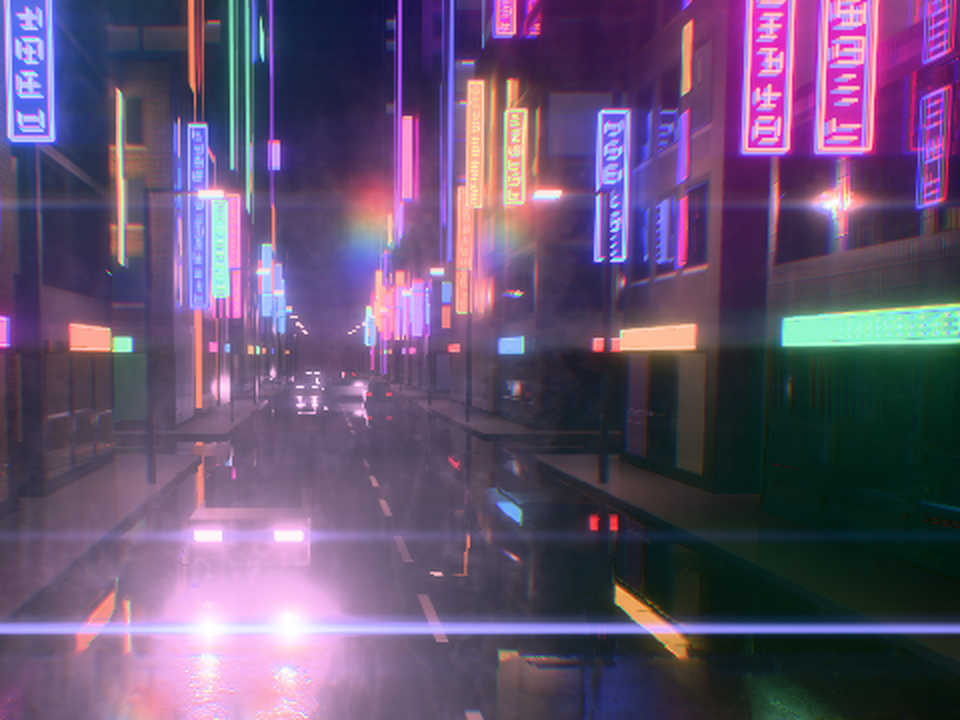
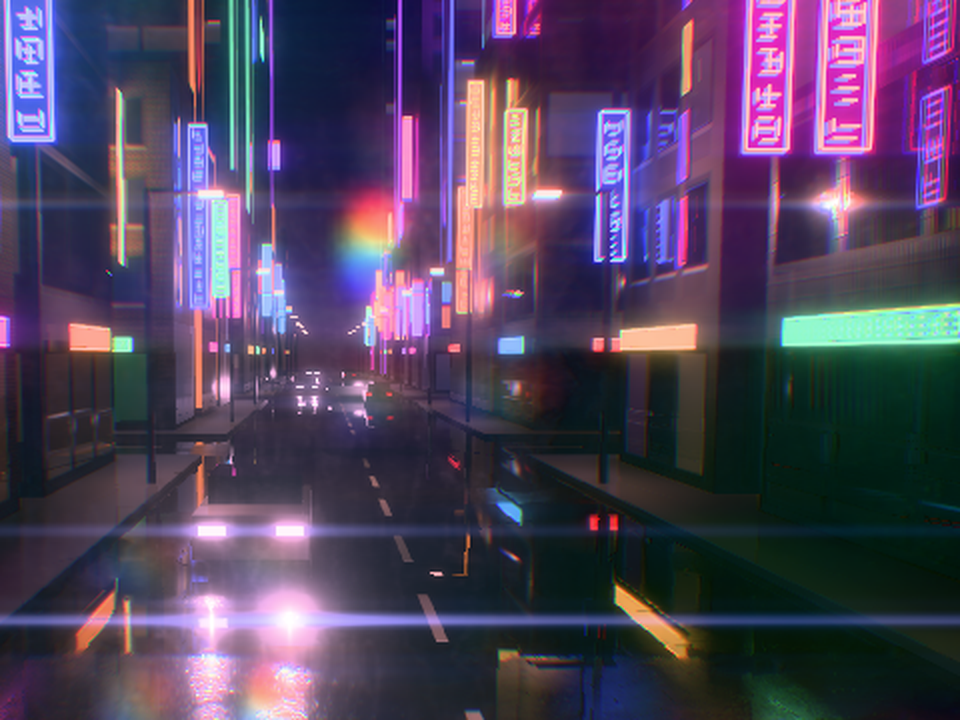
Lighting 28: review fixes: flare reads level 1 before bloom's upsamples, INFOs, lens dirt names, ADR-0059 accepted
The flare's ghosts and blur now run before bloom's upsamples, so the flare is
the same with bloom on or off and at any radius (goldens rewritten, neon city
recaptured). One behaviour per test case and an INFO per check; "dirty" names
become lens dirt's; lens dirt warnings get their own log set; the fringe docs
say what the shader does; the fetcher's header owns up to a corrupt zip.
ADR-0059 is accepted, as this ships the last of it.

diff --git a/packages/FenrirRenderer/src/Core/Bloom.cpp b/packages/FenrirRenderer/src/Core/Bloom.cpp
@@ -138,7 +138,7 @@ namespace Fenrir::Render
     BloomChain::BloomChain(GraphicsDevice& device, ILogger& logger, std::uint32_t samples)
         : m_device(device),
           m_passes(device, logger, "Bloom", RenderStage::PostProcess, MirroredSampler(), sizeof(BloomBlock)),
-          m_dirtyPasses(device, logger, "Lens dirt", RenderStage::PostProcess, MirroredSampler(), sizeof(BloomBlock))
+          m_lensDirtPasses(device, logger, "Lens dirt", RenderStage::PostProcess, MirroredSampler(), sizeof(BloomBlock))
     {
         m_downsample = ReadBuiltin(BuiltinProgram::BloomDownsample, logger);
         m_upsample = ReadBuiltin(BuiltinProgram::BloomUpsample, logger);
@@ -172,8 +172,8 @@ namespace Fenrir::Render
         // The flare's ghosts, and the composite that also reads the lens dirt, at SceneColor's samples.
         m_flareGhosts = m_passes.MakePipeline(m_flare.FindVariant({}), m_flare.name, {TextureFormat::Rgba16Float});
         constexpr std::array<std::string_view, 1> dirt{"DIRT"};
-        m_dirtyComposite = m_dirtyPasses.MakePipeline(m_upsample.FindVariant(dirt), m_upsample.name,
-                                                      {TextureFormat::Rgba16Float}, BlendMode::Alpha, samples);
+        m_lensDirtComposite = m_lensDirtPasses.MakePipeline(m_upsample.FindVariant(dirt), m_upsample.name,
+                                                            {TextureFormat::Rgba16Float}, BlendMode::Alpha, samples);
     }
 
     BloomChain::~BloomChain()
@@ -186,7 +186,7 @@ namespace Fenrir::Render
         m_device.Destroy(m_streakUpsample);
         m_device.Destroy(m_streakComposite);
         m_device.Destroy(m_flareGhosts);
-        m_device.Destroy(m_dirtyComposite);
+        m_device.Destroy(m_lensDirtComposite);
     }
 
     void BloomChain::AddPasses(RenderGraph& graph, std::uint64_t frameIndex, std::span<const BloomView> views)
@@ -208,8 +208,8 @@ namespace Fenrir::Render
         const auto flares = [this](const BloomView& view) {
             return !m_flareGhosts.IsEmpty() && view.flare.intensity > 0.0f && BloomLevels(view.size) > 0;
         };
-        const auto dirty = [this](const BloomView& view) {
-            return !m_dirtyComposite.IsEmpty() && !view.dirt.IsEmpty() && view.flare.dirtIntensity > 0.0f;
+        const auto hasLensDirt = [this](const BloomView& view) {
+            return !m_lensDirtComposite.IsEmpty() && !view.dirt.IsEmpty() && view.flare.dirtIntensity > 0.0f;
         };
         // How many of bloom's levels a view downsamples to: all of them when it blooms, else down to the flare's level
         // when it flares, else level 0 for the streaks.
@@ -218,9 +218,9 @@ namespace Fenrir::Render
         };
         // Each view's passes take one block apiece: a downsample per level and, when it blooms, an upsample per level
         // but the last and its composite; the streaks' downsample per level, as many upsamples less one and their
-        // composite; and the flare's three. The composites under lens dirt take theirs from the dirty ring.
+        // composite; and the flare's three. The composites under lens dirt take theirs from the lens dirt ring.
         std::size_t slots = 0;
-        std::size_t dirtySlots = 0;
+        std::size_t lensDirtSlots = 0;
         for (const BloomView& view : views)
         {
             const bool bloom = blooms(view);
@@ -234,14 +234,14 @@ namespace Fenrir::Render
             slots += streaks(view) ? std::size_t{2} * StreakLevels(view.size) : 0;
             slots += flare ? 2 : 0;
             const std::size_t composites = (bloom ? 1 : 0) + (flare ? 1 : 0);
-            (dirty(view) ? dirtySlots : slots) += composites;
+            (hasLensDirt(view) ? lensDirtSlots : slots) += composites;
         }
         if (slots == 0)
         {
             return;
         }
         m_passes.Reserve(slots);
-        m_dirtyPasses.Reserve(dirtySlots);
+        m_lensDirtPasses.Reserve(lensDirtSlots);
 
         const auto addPass = [&](const char* name, PipelineHandle pipeline, GraphResource source, GraphResource target,
                                  LoadOp load, PixelSize sourceSize, PixelSize targetSize, float blend, bool karis,
@@ -255,13 +255,13 @@ namespace Fenrir::Render
         const auto addComposite = [&](const char* name, const BloomView& view, GraphResource source,
                                       PixelSize sourceSize, float intensity) {
             const PixelRect viewport{0, 0, view.size.width, view.size.height};
-            if (dirty(view))
+            if (hasLensDirt(view))
             {
-                const BindingGroupHandle block = m_dirtyPasses.Block(
+                const BindingGroupHandle block = m_lensDirtPasses.Block(
                     frameIndex,
                     BytesOf(BlockFor(sourceSize, intensity, false, Math::Vec3(1.0f), view.flare.dirtIntensity)));
-                m_dirtyPasses.AddPass(graph, name, m_dirtyComposite, block, {source, view.dirt}, {view.sceneColour},
-                                      LoadOp::Load, viewport);
+                m_lensDirtPasses.AddPass(graph, name, m_lensDirtComposite, block, {source, view.dirt},
+                                         {view.sceneColour}, LoadOp::Load, viewport);
                 return;
             }
             const BindingGroupHandle block =
@@ -320,6 +320,28 @@ namespace Fenrir::Render
                         StreakLevelSize(view.size, level), 1.0f, false);
             }
 
+            // The flare's ghosts and halo read level 1 before bloom's upsamples blend the wider levels over it, so the
+            // flare is the same with bloom on or off and at any bloom radius; then their blur.
+            GraphResource flareLevel;
+            const PixelSize flareSize = LevelSize(view.size, FlareLevel(view.size));
+            if (flare)
+            {
+                FlareBlock block;
+                block.ghostSpacing = view.flare.ghostSpacing;
+                block.haloRadius = view.flare.haloRadius;
+                block.haloWidth = view.flare.haloWidth;
+                block.chromaticOffset = view.flare.chromaticOffset;
+                block.ghostCount = std::min(view.flare.ghostCount, MaxGhosts);
+                block.aspect = static_cast<float>(view.size.width) / static_cast<float>(view.size.height);
+                const GraphResource ghosts = makeLevel("Flare", flareSize);
+                m_passes.AddPass(graph, "FlareGhosts", m_flareGhosts, m_passes.Block(frameIndex, BytesOf(block)),
+                                 {chain[FlareLevel(view.size)]}, {ghosts}, LoadOp::DontCare,
+                                 {0, 0, flareSize.width, flareSize.height});
+                flareLevel = makeLevel("Flare", flareSize);
+                addPass("FlareBlur", m_downsamplePipeline, ghosts, flareLevel, LoadOp::DontCare, flareSize, flareSize,
+                        1.0f, false);
+            }
+
             if (bloom)
             {
                 const float intensity = std::min(view.settings.intensity, 1.0f);
@@ -349,22 +371,7 @@ namespace Fenrir::Render
 
             if (flare)
             {
-                // The ghosts and halo from bloom's level 1, holding the bloom of the wider levels when the view blooms.
-                const std::uint32_t level = FlareLevel(view.size);
-                const PixelSize size = LevelSize(view.size, level);
-                FlareBlock block;
-                block.ghostSpacing = view.flare.ghostSpacing;
-                block.haloRadius = view.flare.haloRadius;
-                block.haloWidth = view.flare.haloWidth;
-                block.chromaticOffset = view.flare.chromaticOffset;
-                block.ghostCount = std::min(view.flare.ghostCount, MaxGhosts);
-                block.aspect = static_cast<float>(view.size.width) / static_cast<float>(view.size.height);
-                const GraphResource ghosts = makeLevel("Flare", size);
-                m_passes.AddPass(graph, "FlareGhosts", m_flareGhosts, m_passes.Block(frameIndex, BytesOf(block)),
-                                 {chain[level]}, {ghosts}, LoadOp::DontCare, {0, 0, size.width, size.height});
-                const GraphResource blurred = makeLevel("Flare", size);
-                addPass("FlareBlur", m_downsamplePipeline, ghosts, blurred, LoadOp::DontCare, size, size, 1.0f, false);
-                addComposite("FlareComposite", view, blurred, size, std::min(view.flare.intensity, 1.0f));
+                addComposite("FlareComposite", view, flareLevel, flareSize, std::min(view.flare.intensity, 1.0f));
             }
         }
     }

diff --git a/packages/FenrirRenderer/Tests/LensFlare.cpp b/packages/FenrirRenderer/Tests/LensFlare.cpp
@@ -68,6 +68,7 @@ namespace
     std::vector<std::byte> BlockBytes(const RendererTestApp& test, const PassRecord& pass, std::size_t& at)
     {
         const auto entries = RendererProbe::Entries(test.Device(), pass.groups.at(1));
+        INFO("the pass " << pass.pass.label << " binds one block at set 1");
         REQUIRE(entries.size() == 1);
         at = entries[0].offset;
         return RendererProbe::Bytes(test.Device(), entries[0].buffer);
@@ -213,14 +214,18 @@ TEST_CASE("Lens dirt raises a pixel's share of bloom and the flare, never past 1
 
 TEST_CASE("The flare reads bloom's second level, or its first when the chain has one", "[renderer][flare]")
 {
+    INFO("a 1280 x 720 view's chain has six levels, and a 4 x 4 view's two: the flare reads level 1");
     REQUIRE(FlareLevel({1280, 720}) == 1);
     REQUIRE(FlareLevel({4, 4}) == 1);
+    INFO("a 2 x 3 view's chain has level 0 only, which the flare reads");
     REQUIRE(FlareLevel({2, 3}) == 0);
 }
 
-TEST_CASE("The generated lens dirt is greyscale, mostly clean, and the same for the same seed", "[renderer][flare]")
+TEST_CASE("The generated lens dirt is a mostly clean, greyscale, linear image of the size asked for",
+          "[renderer][flare]")
 {
     const Fenrir::ImageData dirt = Fenrir::GenerateLensDirt(256, 128, 7);
+    INFO("an RGBA8 linear image of 256 x 128, with every pixel's bytes");
     REQUIRE(dirt.width == 256);
     REQUIRE(dirt.height == 128);
     REQUIRE(dirt.format == Fenrir::ImageFormat::RGBA8);
@@ -248,9 +253,15 @@ TEST_CASE("The generated lens dirt is greyscale, mostly clean, and the same for 
     REQUIRE(mean > 0.02);
     REQUIRE(mean < 0.35);
     REQUIRE(bright > 0);
-    INFO("the same seed makes the same image, another seed another");
-    REQUIRE(Fenrir::GenerateLensDirt(256, 128, 7).pixels == dirt.pixels);
-    REQUIRE(Fenrir::GenerateLensDirt(256, 128, 8).pixels != dirt.pixels);
+}
+
+TEST_CASE("The generated lens dirt is the same for the same seed and another for another", "[renderer][flare]")
+{
+    const Fenrir::ImageData dirt = Fenrir::GenerateLensDirt(64, 32, 7);
+    INFO("seed 7 twice makes the same image");
+    REQUIRE(Fenrir::GenerateLensDirt(64, 32, 7).pixels == dirt.pixels);
+    INFO("seed 8 another");
+    REQUIRE(Fenrir::GenerateLensDirt(64, 32, 8).pixels != dirt.pixels);
 }
 
 TEST_CASE("A camera's lens flare is off by default and adds no pass", "[renderer][flare]")
@@ -264,6 +275,7 @@ TEST_CASE("A camera's lens flare is off by default and adds no pass", "[renderer
 
     test.Frame();
     const std::vector<std::string> labels = Labels(test.Passes());
+    INFO("no pass is a flare pass");
     REQUIRE(std::none_of(labels.begin(), labels.end(),
                          [](const std::string& label) { return label.rfind("Flare", 0) == 0; }));
     INFO("and bloom's composite is the plain one");
@@ -288,12 +300,14 @@ TEST_CASE("A camera's flare runs in PostProcess after its streaks, from bloom's 
     std::vector<std::string> expected{"BrdfLut", "DepthPrepass", "Opaque", "Background"};
     expected.insert(expected.end(), 6, "BloomDownsample");
     expected.insert(expected.end(), 8, "StreakDownsample");
+    expected.insert(expected.end(), {"FlareGhosts", "FlareBlur"});
     expected.insert(expected.end(), 5, "BloomUpsample");
     expected.emplace_back("BloomComposite");
     expected.insert(expected.end(), 7, "StreakUpsample");
     expected.emplace_back("StreakComposite");
-    expected.insert(expected.end(), {"FlareGhosts", "FlareBlur", "FlareComposite", "Output"});
-    INFO("the flare's three passes follow the streaks' composite");
+    expected.insert(expected.end(), {"FlareComposite", "Output"});
+    INFO("the ghosts and their blur read level 1 before bloom's upsamples blend over it, as the streaks' downsamples "
+         "read level 0; the flare's composite follows the streaks'");
     REQUIRE(Labels(passes) == expected);
 
     const TextureHandle sceneColour = RendererTest::Labelled(passes, "Opaque").at(0).pass.colour.at(0).texture;
@@ -397,7 +411,7 @@ TEST_CASE("Lens dirt makes bloom's and the flare's composites read the dirt imag
     REQUIRE(test.messages->errors.empty());
 }
 
-TEST_CASE("Lens dirt with the flare off scales bloom alone; with no intensity it is none", "[renderer][flare]")
+TEST_CASE("Lens dirt with the flare off scales bloom alone", "[renderer][flare]")
 {
     RendererTestApp test;
     Fenrir::Camera& camera = AddFlaringCamera(test, 0.0f);
@@ -411,8 +425,16 @@ TEST_CASE("Lens dirt with the flare off scales bloom alone; with no intensity it
     REQUIRE(
         RendererProbe::Keys(test.Device(), RendererTest::Labelled(test.Passes(), "BloomComposite").at(0).pipeline) ==
         std::vector<std::string>{"DIRT"});
+    REQUIRE(test.messages->errors.empty());
+}
 
+TEST_CASE("Lens dirt at an intensity of 0 is none", "[renderer][flare]")
+{
+    RendererTestApp test;
+    Fenrir::Camera& camera = AddFlaringCamera(test, 0.0f);
+    camera.lensFlare.dirt = AddDirt(test, 255);
     camera.lensFlare.dirtIntensity = 0.0f;
+
     test.Frame();
     INFO("a dirt intensity of 0 is the plain composite");
     REQUIRE(RendererProbe::Keys(test.Device(), RendererTest::Labelled(test.Passes(), "BloomComposite").at(0).pipeline)

diff --git a/packages/FenrirRenderer/src/Core/Bloom.hpp b/packages/FenrirRenderer/src/Core/Bloom.hpp
@@ -67,7 +67,9 @@ namespace Fenrir::Render
          * added.
          */
         StreakSettings streaks;
-        /** @brief Its camera's lens flare, the intensity clamped to [0, 1] and the ghosts to MaxGhosts. */
+        /** @brief Its camera's lens flare, whose intensity is clamped to [0, 1] and ghosts to MaxGhosts as the passes
+         * are added.
+         */
         LensFlareSettings flare;
         /** @brief The lens dirt image the composites read, imported into the graph; empty for none. */
         GraphResource dirt;
@@ -102,15 +104,16 @@ namespace Fenrir::Render
      *   (1 - intensity) of itself and `intensity` of the streaks, and the streaks move light, never add it: exactly
      *   so for grey light, while a coloured source times a coloured tint gains or loses a little luminance.
      *
-     * The lens flare (ADR-0059), John Chapman's pseudo lens flare, reads bloom's level 1 (FlareLevel), the bloom of
-     * the wider levels blended over it:
+     * The lens flare (ADR-0059), John Chapman's pseudo lens flare, reads bloom's level 1 (FlareLevel):
      *
-     * - **FlareGhosts**, after StreakComposite: `builtin:lens-flare`, the ghosts along the line through the view's
-     *   centre and the halo ring, each fringed, into a level of level 1's size, the pixel keeping the rest of its own
-     *   light (so a flat view is left as it is).
-     * - **FlareBlur**: bloom's 13-tap downsample filter, without the Karis average, at the same size, into another.
-     * - **FlareComposite**: that drawn over SceneColor with the tent filter, blended by the flare's `intensity`, as
-     *   BloomComposite is.
+     * - **FlareGhosts**, after the streaks' downsamples and before bloom's upsamples, which blend the wider levels
+     *   over level 1, so the flare is the same with bloom on or off: `builtin:lens-flare`, the ghosts along the line
+     *   through the view's centre and the halo ring, each fringed, into a level of level 1's size, the pixel keeping
+     *   the rest of its own light (so a flat view is left as it is).
+     * - **FlareBlur**, after it: bloom's 13-tap downsample filter, without the Karis average, at the same size, into
+     *   another.
+     * - **FlareComposite**, after StreakComposite: that drawn over SceneColor with the tent filter, blended by the
+     *   flare's `intensity`, as BloomComposite is.
      *
      * A view whose bloom is off but whose streaks or flare are on runs bloom's first downsample (a BloomDownsample
      * pass) into a level 0 of its own, and with the flare its second into a level 1.
@@ -148,7 +151,7 @@ namespace Fenrir::Render
         /** @brief Every pass's block, source, sampler (mirrored at the edges, bilinear) and group. */
         FullscreenPasses<1> m_passes;
         /** @brief The DIRT composites' blocks and sources: their level, then the dirt. */
-        FullscreenPasses<2> m_dirtyPasses;
+        FullscreenPasses<2> m_lensDirtPasses;
         /** @brief The first downsample, which reads SceneColor (its MSAA variant when SceneColor is multisampled). */
         Graphics::PipelineHandle m_firstDownsample;
         Graphics::PipelineHandle m_downsamplePipeline;
@@ -160,9 +163,14 @@ namespace Fenrir::Render
         Graphics::PipelineHandle m_streakDownsample;
         Graphics::PipelineHandle m_streakUpsample;
         Graphics::PipelineHandle m_streakComposite;
-        /** @brief The flare's ghosts and halo; its blur is m_downsamplePipeline and its composite bloom's. */
+        /**
+         * @brief The flare's ghosts and halo; its blur is m_downsamplePipeline, and its composite bloom's own
+         * (m_compositePipeline, or m_lensDirtComposite under lens dirt).
+         */
         Graphics::PipelineHandle m_flareGhosts;
-        /** @brief The composite into SceneColor under lens dirt, at its samples, blended by the dirty share. */
-        Graphics::PipelineHandle m_dirtyComposite;
+        /** @brief The composite into SceneColor under lens dirt, at its samples, blended by the share the dirt
+         * raises.
+         */
+        Graphics::PipelineHandle m_lensDirtComposite;
     };
 } // namespace Fenrir::Render

diff --git a/packages/FenrirRenderer/src/Facade/RendererState.hpp b/packages/FenrirRenderer/src/Facade/RendererState.hpp
@@ -118,6 +118,8 @@ namespace Fenrir::Detail
         std::set<std::pair<std::uint32_t, std::uint32_t>> loggedTies;
         /** @brief Images materials name that cannot be sampled as a 2D texture, by index and generation. */
         std::set<std::pair<std::uint32_t, std::uint32_t>> loggedImages;
+        /** @brief The images a camera's lens dirt names that are not flat images with pixels, warned of once. */
+        std::set<std::pair<std::uint32_t, std::uint32_t>> loggedLensDirt;
         /** @brief Sky cubemaps and panoramas that cannot be drawn: empty, stale, or the wrong shape. */
         StaleHandleLog skyImages;
         /** @brief Windows the renderer does not draw that overlay submissions named, by id. */

diff --git a/packages/FenrirRenderer/include/FenrirRenderer/Components.hpp b/packages/FenrirRenderer/include/FenrirRenderer/Components.hpp
@@ -530,8 +530,8 @@ namespace Fenrir
         /** @brief How far the halo reaches either side of its radius, in the same distance: 0.1 by default; 0 none. */
         float haloWidth = 0.1f;
         /**
-         * @brief How far red and blue are read apart in each ghost and the halo, in the same distance: 0.01 by
-         * default, so the ghosts fringe red outside and blue inside.
+         * @brief How far red and blue are read apart in each ghost and the halo, along the line through the view's
+         * centre, in the same distance: 0.01 by default, so the ghosts fringe.
          */
         float chromaticOffset = 0.01f;
         /**

diff --git a/packages/FenrirRenderer/src/Facade/Renderer.cpp b/packages/FenrirRenderer/src/Facade/Renderer.cpp
@@ -250,7 +250,7 @@ namespace Fenrir
             }
             if (data->shape != ImageShape::Flat || data->pixels.empty())
             {
-                if (state.loggedImages.insert({handle.index, handle.generation}).second)
+                if (state.loggedLensDirt.insert({handle.index, handle.generation}).second)
                 {
                     state.app->Logger()->Warn("FenrirRenderer: a camera's lens dirt is image {}, which is {}, so the "
                                               "camera has no lens dirt",

diff --git a/packages/FenrirRenderer/README.md b/packages/FenrirRenderer/README.md
@@ -51,7 +51,7 @@ All in `Render`, on the main thread (ADR-0019):
 1. Read the main window's pixel size. A minimised or zero-sized window builds, submits and presents nothing, but the frame index still advances.
 2. Read the active scene: every visible `MeshRenderer` and `InstancedMeshRenderer` (with `GetWorldMatrix` once each; an instance list is uploaded when it is new or its revision moved on), every enabled `Camera` as a view, the first `DirectionalLight` (more are warned about once), every `PointLight`, `SpotLight` and `RectLight` that can light anything, the `Sky` and any `SkyLight`, and the scene's `DebugDraw`, tessellated, when FenrirDebugDraw is installed. Inactive scenes are never read, and nothing is kept between frames but each reflecting camera's history colour and Hi-Z pyramids (step 4).
 3. Prepare: upload each mesh, material and image that is new or has a new revision (an image with every mip level, made at upload; the `Sky`'s cubemap as a cube texture, each face with its mips, or its panorama as a 2D texture with its mips and an RGBA16F cube texture for it), and make each render target image's texture, keyed by asset handle and revision, and free the GPU side of each handle that went stale. Pipelines are made the first time a draw needs them (keyed by shader variant, blend mode, culling, vertex streams and sample count) and kept while their shader lives.
-4. Build one render graph for every view: first, in the `Prepare` stage, one `Panorama` pass per face and mip level of a panorama prepared since the last frame, each drawing that level from the panorama itself (four points a texel, from the panorama's mip as coarse as the level), after which the panorama's own texture is freed; in the first frame, `BrdfLut`, the split sum's 128 x 128 RG16F BRDF lookup table; and when the sky's source changes (a new cube texture, or a colour sky for a cube one), `SkyIrradiance`, its L2 spherical harmonics projected from its cube, and one `SkySpecular` pass per face and mip level of its prefiltered GGX cube (faces at most 128 wide, one roughness step a mip level), never for a new `intensity` or `rotation`; then, in the `Skinning` stage, when skinned meshes are drawn and compute skinning is on, one `Skinning` compute pass (see "Skinning"); then `SpotShadows`, in the `Shadow` stage, when spot lights within the budget cast and some item does, and per view `ShadowCascades`, there too, when the `DirectionalLight` casts and some item does (see "Shadows") → `DepthPrepass` (ADR-0049: the `Opaque` and `Masked` items in `Opaque`'s order, merged as `Opaque` merges them, through the item's own vertex stage and `builtin:depth-prepass`'s fragment stage, writing reversed-Z depth cleared to 0 and each pixel's view-space normal, octahedral (`Fenrir/Normals.glsl`), into an RG16F `SceneNormals` target cleared to 0, at the view's size and MSAA samples) → `LightClusters`, when there are point, spot or rect lights and clustering is on (a compute pass; see "Light clusters") → the ambient occlusion, when the camera's `ambientOcclusion` is on (`GtaoHorizons`, XeGTAO's horizon search over the prepass's depth and normals, sample 0 under MSAA, into R8 occlusion and edge targets at the view's size; then `GtaoDenoise`, its edge-aware 3 x 3 blur, into the view's R8 occlusion texture) → `HiZ`, when the camera's `reflections` are on (ADR-0056: one pass per level of the view's Hi-Z pyramid, an R32F texture at the view's size with a full mip chain that the camera keeps across frames; the first copies the prepass's depth into level 0, sample 0 under MSAA, and each later one draws a level from the one above, each texel the nearest depth of the texels it covers, the last row and column folded in where a level's side is odd; the camera keeps two pyramids and draws the other each frame, so last frame's is still there) → `ReflectionTrace`, after it (`builtin:reflection-trace`: each pixel's mirror ray about its prepass normal marched through the pyramid, at most 64 steps, into an RGBA16F hit target at the view's size: the hit's UV in last frame's view, its confidence and the ray's length; see "Screen-space reflections") → `Opaque` (the `Opaque` and `Masked` items sorted by pipeline, material and mesh, each run with the same three one instanced draw (ADR-0051) unless `RendererConfig::automaticInstancing` is off, each instance reading its own draw record, testing the prepass's depth for equality without writing it, so each pixel is shaded once; it binds the view's occlusion texture, or the white one, at set 1 binding 1, and every other pass the white one) → `Background` (at depth 0, filling only what nothing drew: the camera's own colour, or the scene's `Sky`, a colour, or a cube texture sampled by the direction each pixel looks along, turned by the sky's `rotation` and scaled by its `intensity`) → `Transparent` (when there are `AlphaBlend` or `Additive` items: one draw each, depth tested without writing it, back to front by the view-space depth of each item's world origin) → `Debug` (when the scene has debug drawing and the camera's `drawDebug` is on) → `SceneHistory`, first in `PostProcess`, when the camera's `reflections` are on (one pass per level of the view's history, an RGBA16F texture at the view's size with a full mip chain that the camera keeps across frames: the first copies SceneColor before bloom into level 0, the plain mean of its samples under MSAA, with infinities clamped and NaN left out as bloom's first level does, and each later one the 2 x 2 mean of the level above) → the bloom, in `PostProcess`, when the camera's `bloom.intensity` is over 0 and its viewport at least 2 pixels on a side (one `BloomDownsample` per level, SceneColor into half-size RGBA16F levels, one per halving of the viewport's shorter side up to six, with Jimenez's 13-tap filter and the Karis average on the first, which also clamps infinities to RGBA16F's largest value and leaves NaN out, so one bad pixel cannot blacken the bloom; `builtin:lit` clamps its colour there too; then one `BloomUpsample` per level from the second smallest up, each level below tent-filtered and blended over its own by `bloom.radius`; then `BloomComposite`, level 0 tent-filtered over SceneColor by `bloom.intensity`) → the anamorphic streaks, in `PostProcess`, when the camera's `anamorphicStreaks.intensity` is over 0 (ADR-0059: one `StreakDownsample` per level, from bloom's level 0, run after bloom's downsamples and before its upsamples, each level half the width of the one before and level 0's height, one per halving of level 0's width up to eight, with a horizontal-only filter; a view whose bloom is off first runs one `BloomDownsample` of its own into a level 0; then one `StreakUpsample` per level from the second narrowest up, each level below filtered with a horizontal tent and blended over its own by `anamorphicStreaks.length`, after `BloomComposite`; then `StreakComposite`, the first streak level over SceneColor, times the tint at unit luminance, by `anamorphicStreaks.intensity`) → the lens flare, in `PostProcess`, when the camera's `lensFlare.intensity` is over 0 (ADR-0059: `FlareGhosts`, `builtin:lens-flare` from bloom's level 1 after the bloom's upsamples blended over it, into an RGBA16F level of its size; a view whose bloom is off first runs `BloomDownsample`s of its own down to level 1; then `FlareBlur`, bloom's 13-tap filter without the Karis average at the same size; then `FlareComposite`, that over SceneColor by `lensFlare.intensity`, after `StreakComposite`; with lens dirt, `BloomComposite` and `FlareComposite` are `builtin:bloom-upsample`'s `DIRT` variant, which also reads the dirt image) → `Output` (the linear RGBA16F `SceneColor` resolved, each channel at its own point under the camera's `chromaticAberration`, scaled by its `exposure`, darkened by its `vignette`, graded by its `colourGrading`, mapped into [0, 1] by its `tonemapper`, grained by its `filmGrain` and encoded into the view's viewport of its sRGB target; with the camera's `debugView` at `AmbientOcclusion`, `ShadowAtlas`, `SpotShadowAtlas` or `ReflectionConfidence`, its occlusion texture, its shadow atlas, the spot shadow atlas or its reflection hit target's confidence drawn as grey instead, black without one, and the passes only SceneColor needs culled; at `Reflections`, last frame's history at each reflection hit times its confidence, exposed, vignetted, graded, tonemapped and grained, read before `SceneHistory` replaces it, so that `Output` runs before it); then, once for the window, `Overlay 2D` (the overlay's 2D draw lists, when there are any) and `Overlay` (debug screen text and messages). A view whose draws sample an image another view draws runs after it. A window no view draws into is cleared to black, logged once.
+4. Build one render graph for every view: first, in the `Prepare` stage, one `Panorama` pass per face and mip level of a panorama prepared since the last frame, each drawing that level from the panorama itself (four points a texel, from the panorama's mip as coarse as the level), after which the panorama's own texture is freed; in the first frame, `BrdfLut`, the split sum's 128 x 128 RG16F BRDF lookup table; and when the sky's source changes (a new cube texture, or a colour sky for a cube one), `SkyIrradiance`, its L2 spherical harmonics projected from its cube, and one `SkySpecular` pass per face and mip level of its prefiltered GGX cube (faces at most 128 wide, one roughness step a mip level), never for a new `intensity` or `rotation`; then, in the `Skinning` stage, when skinned meshes are drawn and compute skinning is on, one `Skinning` compute pass (see "Skinning"); then `SpotShadows`, in the `Shadow` stage, when spot lights within the budget cast and some item does, and per view `ShadowCascades`, there too, when the `DirectionalLight` casts and some item does (see "Shadows") → `DepthPrepass` (ADR-0049: the `Opaque` and `Masked` items in `Opaque`'s order, merged as `Opaque` merges them, through the item's own vertex stage and `builtin:depth-prepass`'s fragment stage, writing reversed-Z depth cleared to 0 and each pixel's view-space normal, octahedral (`Fenrir/Normals.glsl`), into an RG16F `SceneNormals` target cleared to 0, at the view's size and MSAA samples) → `LightClusters`, when there are point, spot or rect lights and clustering is on (a compute pass; see "Light clusters") → the ambient occlusion, when the camera's `ambientOcclusion` is on (`GtaoHorizons`, XeGTAO's horizon search over the prepass's depth and normals, sample 0 under MSAA, into R8 occlusion and edge targets at the view's size; then `GtaoDenoise`, its edge-aware 3 x 3 blur, into the view's R8 occlusion texture) → `HiZ`, when the camera's `reflections` are on (ADR-0056: one pass per level of the view's Hi-Z pyramid, an R32F texture at the view's size with a full mip chain that the camera keeps across frames; the first copies the prepass's depth into level 0, sample 0 under MSAA, and each later one draws a level from the one above, each texel the nearest depth of the texels it covers, the last row and column folded in where a level's side is odd; the camera keeps two pyramids and draws the other each frame, so last frame's is still there) → `ReflectionTrace`, after it (`builtin:reflection-trace`: each pixel's mirror ray about its prepass normal marched through the pyramid, at most 64 steps, into an RGBA16F hit target at the view's size: the hit's UV in last frame's view, its confidence and the ray's length; see "Screen-space reflections") → `Opaque` (the `Opaque` and `Masked` items sorted by pipeline, material and mesh, each run with the same three one instanced draw (ADR-0051) unless `RendererConfig::automaticInstancing` is off, each instance reading its own draw record, testing the prepass's depth for equality without writing it, so each pixel is shaded once; it binds the view's occlusion texture, or the white one, at set 1 binding 1, and every other pass the white one) → `Background` (at depth 0, filling only what nothing drew: the camera's own colour, or the scene's `Sky`, a colour, or a cube texture sampled by the direction each pixel looks along, turned by the sky's `rotation` and scaled by its `intensity`) → `Transparent` (when there are `AlphaBlend` or `Additive` items: one draw each, depth tested without writing it, back to front by the view-space depth of each item's world origin) → `Debug` (when the scene has debug drawing and the camera's `drawDebug` is on) → `SceneHistory`, first in `PostProcess`, when the camera's `reflections` are on (one pass per level of the view's history, an RGBA16F texture at the view's size with a full mip chain that the camera keeps across frames: the first copies SceneColor before bloom into level 0, the plain mean of its samples under MSAA, with infinities clamped and NaN left out as bloom's first level does, and each later one the 2 x 2 mean of the level above) → the bloom, in `PostProcess`, when the camera's `bloom.intensity` is over 0 and its viewport at least 2 pixels on a side (one `BloomDownsample` per level, SceneColor into half-size RGBA16F levels, one per halving of the viewport's shorter side up to six, with Jimenez's 13-tap filter and the Karis average on the first, which also clamps infinities to RGBA16F's largest value and leaves NaN out, so one bad pixel cannot blacken the bloom; `builtin:lit` clamps its colour there too; then one `BloomUpsample` per level from the second smallest up, each level below tent-filtered and blended over its own by `bloom.radius`; then `BloomComposite`, level 0 tent-filtered over SceneColor by `bloom.intensity`) → the anamorphic streaks, in `PostProcess`, when the camera's `anamorphicStreaks.intensity` is over 0 (ADR-0059: one `StreakDownsample` per level, from bloom's level 0, run after bloom's downsamples and before its upsamples, each level half the width of the one before and level 0's height, one per halving of level 0's width up to eight, with a horizontal-only filter; a view whose bloom is off first runs one `BloomDownsample` of its own into a level 0; then one `StreakUpsample` per level from the second narrowest up, each level below filtered with a horizontal tent and blended over its own by `anamorphicStreaks.length`, after `BloomComposite`; then `StreakComposite`, the first streak level over SceneColor, times the tint at unit luminance, by `anamorphicStreaks.intensity`) → the lens flare, in `PostProcess`, when the camera's `lensFlare.intensity` is over 0 (ADR-0059: `FlareGhosts`, `builtin:lens-flare` from bloom's level 1, run after the streaks' downsamples and before bloom's upsamples blend over it, into an RGBA16F level of its size; a view whose bloom is off first runs `BloomDownsample`s of its own down to level 1; then `FlareBlur`, bloom's 13-tap filter without the Karis average at the same size; then `FlareComposite`, that over SceneColor by `lensFlare.intensity`, after `StreakComposite`; with lens dirt, `BloomComposite` and `FlareComposite` are `builtin:bloom-upsample`'s `DIRT` variant, which also reads the dirt image) → `Output` (the linear RGBA16F `SceneColor` resolved, each channel at its own point under the camera's `chromaticAberration`, scaled by its `exposure`, darkened by its `vignette`, graded by its `colourGrading`, mapped into [0, 1] by its `tonemapper`, grained by its `filmGrain` and encoded into the view's viewport of its sRGB target; with the camera's `debugView` at `AmbientOcclusion`, `ShadowAtlas`, `SpotShadowAtlas` or `ReflectionConfidence`, its occlusion texture, its shadow atlas, the spot shadow atlas or its reflection hit target's confidence drawn as grey instead, black without one, and the passes only SceneColor needs culled; at `Reflections`, last frame's history at each reflection hit times its confidence, exposed, vignetted, graded, tonemapped and grained, read before `SceneHistory` replaces it, so that `Output` runs before it); then, once for the window, `Overlay 2D` (the overlay's 2D draw lists, when there are any) and `Overlay` (debug screen text and messages). A view whose draws sample an image another view draws runs after it. A window no view draws into is cleared to black, logged once.
 5. Record each pass and submit it; then present.
 
 ## Components and resources
@@ -71,7 +71,7 @@ All in `Render`, on the main thread (ADR-0019):
   - `ambientOcclusion` (`{ enabled = false, radius = 0.5, intensity = 1 }`): ground-truth ambient occlusion (GTAO, ADR-0049), Intel's XeGTAO (MIT, `Resources/XeGTAO`) from the depth prepass: how much of the sky nearby geometry hides from each pixel's surface, within `radius` world units (times XeGTAO's 1.457), raised to XeGTAO's 2.2 times `intensity`. `Fenrir/Lighting.glsl` darkens the sky's diffuse light by the lesser of it and the material's own occlusion, and its specular light by a specular occlusion made from that; the directional, point, spot and rect lights never. Transparent items take none, as they are not in the prepass. Off, or a `radius` or `intensity` of 0, skips the passes.
   - `reflections` (`{ enabled = false, intensity = 1, maxDistance = 50, thickness = 0.5, roughnessCutoff = 0.6 }`): screen-space reflections (ADR-0056; see "Screen-space reflections"). On (enabled, with an intensity and a max distance above 0), the camera keeps across frames what they read, its view's history colour and two Hi-Z pyramids (about 44 MB at 1920 x 1080), drawn by its `HiZ` and `SceneHistory` passes, and its `ReflectionTrace` pass traces each pixel's mirror ray, up to `maxDistance` world units, a hit being a surface the ray passes behind by less than `thickness`; the kept textures are remade at a new viewport size, and freed after a frame the camera draws no view with them on. Every material lighting through `Fenrir/Lighting.glsl` takes the reflection over the sky's by its confidence times `intensity`, fading out over the 0.1 of roughness below `roughnessCutoff`. Off skips the passes and keeps nothing.
   - `anamorphicStreaks` (`{ intensity = 0, length = 0.75, tint = white }`): bright pixels drawn out into long, thin horizontal lines before the tonemap, after the bloom, as an anamorphic lens draws them (ADR-0059). A chain beside the bloom's, from its first level, halves only the width at each level with a horizontal-only filter and blends each level back over the next: `intensity` (clamped to [0, 1]) is the share of the streaks in the result, as bloom's is, and `length` (clamped to [0, 1]) how much each longer level adds against the one before it, so 0 keeps the shortest only and 1 the longest only, reaching most of the way across the view. `tint` is a linear colour scaled to unit luminance, so its hue and saturation count and its brightness does not (grey or black is white). As with bloom there is no threshold and the streaks keep the scene's energy, so they move light, never add it; a few hundredths draw lines from lights and leave dim surfaces alone. 0, the default, skips the passes; a view with bloom off still streaks.
-  - `lensFlare` (`{ intensity = 0, ghostCount = 4, ghostSpacing = 0.4, haloRadius = 0.6, haloWidth = 0.1, chromaticOffset = 0.01, dirt = none, dirtIntensity = 1 }`): John Chapman's pseudo lens flare and lens dirt before the tonemap, after the streaks (ADR-0059). From bloom's second level, each pixel reads `ghostCount` ghosts (at most 8) along the line from it through the view's centre, ghost i at i x `ghostSpacing` of the way to the centre, so ghosts read past it land on the far side, and a halo: what is near the centre, drawn on a ring at `haloRadius` (0 at the centre, 1 at the corners) reaching `haloWidth` either side. Each read takes red `chromaticOffset` further from the centre and blue as far in, so the ghosts fringe. A ghost fades with its read point's distance from the centre and with how far it is magnified; the pixel keeps the rest of its own light, so a flat view is left as it is. The result is blurred and mixed into SceneColor by `intensity` (clamped to [0, 1]), as bloom is, so the flare moves light, never adds it, and with no threshold a bright sky ghosts as a faint glare. 0, the default, skips the passes. `dirt` is a greyscale image of the lens's dirt (`GenerateLensDirt` in `FenrirRenderer/LensDirt.hpp` makes one), stretched over the view: where it is bright, the bloom's and the flare's share of each pixel is multiplied by 1 + `dirtIntensity` x its luminance, held at or below 1. It needs no flare: with the flare off it scales the bloom alone. A dirt image that is not a flat image with pixels (a cubemap, a render target) is none, logged once; the streaks take none of it.
+  - `lensFlare` (`{ intensity = 0, ghostCount = 4, ghostSpacing = 0.4, haloRadius = 0.6, haloWidth = 0.1, chromaticOffset = 0.01, dirt = none, dirtIntensity = 1 }`): John Chapman's pseudo lens flare and lens dirt before the tonemap, after the streaks (ADR-0059). From bloom's second level, each pixel reads `ghostCount` ghosts (at most 8) along the line from it through the view's centre, ghost i at i x `ghostSpacing` of the way to the centre, so ghosts read past it land on the far side, and a halo: what is near the centre, drawn on a ring at `haloRadius` (0 at the centre, 1 at the corners) reaching `haloWidth` either side. Each read takes red and blue `chromaticOffset` apart along the line through the centre, so the ghosts fringe. A ghost fades with its read point's distance from the centre and with how far it is magnified; the pixel keeps the rest of its own light, so a flat view is left as it is. The result is blurred and mixed into SceneColor by `intensity` (clamped to [0, 1]), as bloom is, so the flare moves light, never adds it, and with no threshold a bright sky ghosts as a faint glare. 0, the default, skips the passes. `dirt` is a greyscale image of the lens's dirt (`GenerateLensDirt` in `FenrirRenderer/LensDirt.hpp` makes one), stretched over the view: where it is bright, the bloom's and the flare's share of each pixel is multiplied by 1 + `dirtIntensity` x its luminance, held at or below 1. It needs no flare: with the flare off it scales the bloom alone. A dirt image that is not a flat image with pixels (a cubemap, a render target) is none, logged once; the streaks take none of it.
   - `colourGrading` (identity): the view's look, set on the exposed scene colour in linear Rec. 709 before the tonemapper (ADR-0059), so contrast and saturation act on scene values, mid grey stays put and the tonemapper still rolls off whatever the grade brightens. Its steps run in this order. White balance: `temperature` (6500 K, held to 2500 to 25000) names the daylight the view takes as white and `tint` (0, from -1 to 1, positive greener, a Duv of 0.02 at 1) moves it off the daylight locus; a von Kries adaptation in CAT02's LMS takes that white to D65, so a lower temperature cools the picture, a higher one warms it, and a positive tint moves it to magenta. `contrast` (1): the slope in log2 around mid grey (0.18), which it keeps. Split toning: `shadowTint` and `highlightTint` (white; any grey is none), linear colours scaled to unit luminance, so each shifts hue and not brightness and its saturation is its strength, crossing from one to the other by luminance over four stops either side of the split, which `balance` (0, from -1 to 1) moves down by up to four stops from mid grey (positive gives the highlights more). `saturation` (1) around Rec. 709 luminance, after the tints, so lowering it fades them too. The ASC CDL's `slope`, `offset` and `power` per channel last, negatives clamped before the power (held at or above 0.001). An identity grade is skipped. The grade is mirrored on the CPU (`src/Core/ColourGrading.cpp`), which the GL tests hold the shader to; 3D LUTs, lift, gamma and gain, and shadows, midtones and highlights wheels are ADR-0059's "Not yet".
   - `chromaticAberration` (`{ intensity = 0 }`): each channel of SceneColor read at its own point as `Output` reads it, first in ADR-0059's order: green where it is, red `intensity` of the way towards the view's centre and blue as far away from it, so red fringes outwards and blue inwards by `intensity` of the half-diagonal at the corners, and the centre is as it is. Over 0 it draws through `builtin:output`'s `ABERRATION` variant, which under MSAA resolves each of the three points; 0, the default, keeps the plain variant. A few thousandths fringe the edges.
   - `vignette` (`{ intensity = 0, radius = 0.5, smoothness = 0.5, roundness = 1 }`): the exposed linear colour multiplied by 1 - `intensity` x smoothstep(`radius`, `radius` + `smoothness`, d) before the grade and the tonemapper (ADR-0059), so it darkens as a lens does and the tonemapper still sees it. d is the distance from the view's centre, 0 there and 1 at the corners, measured in pixels for a `roundness` of 1, a circle whatever the view's aspect, and in each axis' own half-length for 0, an ellipse in the view's proportions. 0, the default, skips it.

diff --git a/.scratch/fenrir-renderer-lighting/issues/28-lens-flare-and-lens-dirt.md b/.scratch/fenrir-renderer-lighting/issues/28-lens-flare-and-lens-dirt.md
@@ -18,7 +18,7 @@
 **Status:** resolved
 
 - [x] CPU unit tests: ghost positions along the line through the centre for a given count and spacing; the dirt-scaled share never exceeds 1. (`Tests/LensFlare.cpp`, with the shared dirt generator's.)
-- [x] Null-backend probes: a view with the flare off adds no pass; with it on, its passes follow the streaks' in `PostProcess`. The flare reads bloom's level 1 after bloom's upsamples (a view with bloom off downsamples to level 1 for it); with lens dirt, bloom's and the flare's composites take the upsample's `DIRT` variant, and dirt with the flare off scales the bloom alone.
+- [x] Null-backend probes: a view with the flare off adds no pass; with it on, its passes follow the streaks' in `PostProcess`. Only the flare's composite follows the streaks' composite: FlareGhosts and FlareBlur run after the streaks' downsamples and before bloom's upsamples, which would blend the wider levels over level 1, so the flare is the same with bloom on or off (a view with bloom off downsamples to level 1 for it); with lens dirt, bloom's and the flare's composites take the upsample's `DIRT` variant, and dirt with the flare off scales the bloom alone.
 - [x] GL pixel probes: a bright point off-centre makes a ghost on the opposite side of the centre; a dirt texture that is black leaves bloom as it was. (Also: a centred point lights the halo ring; white dirt doubles bloom's share.)
 - [x] Golden images: a bright point off-centre with the flare on, and with a dirt texture from the shared generator (never the fetched map). (`flare-emissive-point.png`, `flare-emissive-point-dirt.png`.)
 

diff --git a/docs/adr/0059-camera-lens-effects-blend-into-scene-colour-before-the-tonemap-and-grading-is-parametric-and-scene-referred.md b/docs/adr/0059-camera-lens-effects-blend-into-scene-colour-before-the-tonemap-and-grading-is-parametric-and-scene-referred.md
@@ -1,5 +1,5 @@
 ---
-status: proposed
+status: accepted
 ---
 
 # Camera lens effects blend into SceneColor before the tonemap, and grading is parametric and scene-referred
